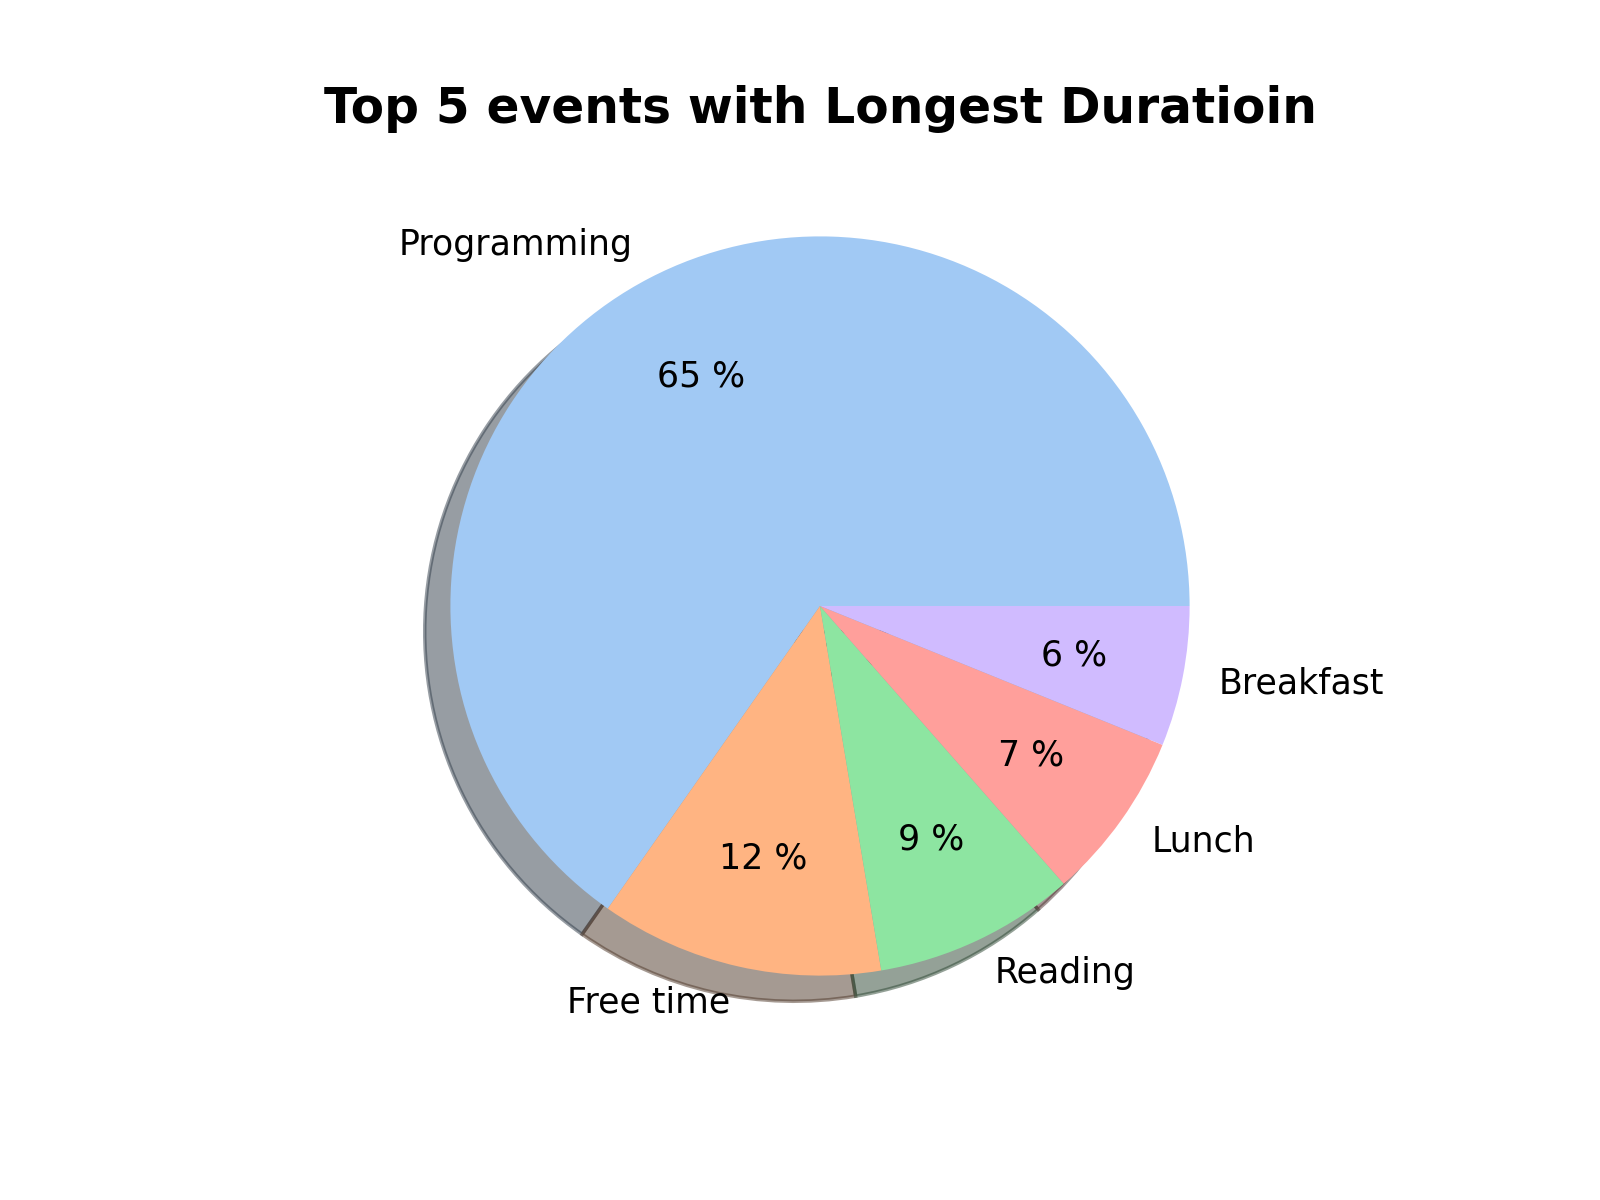
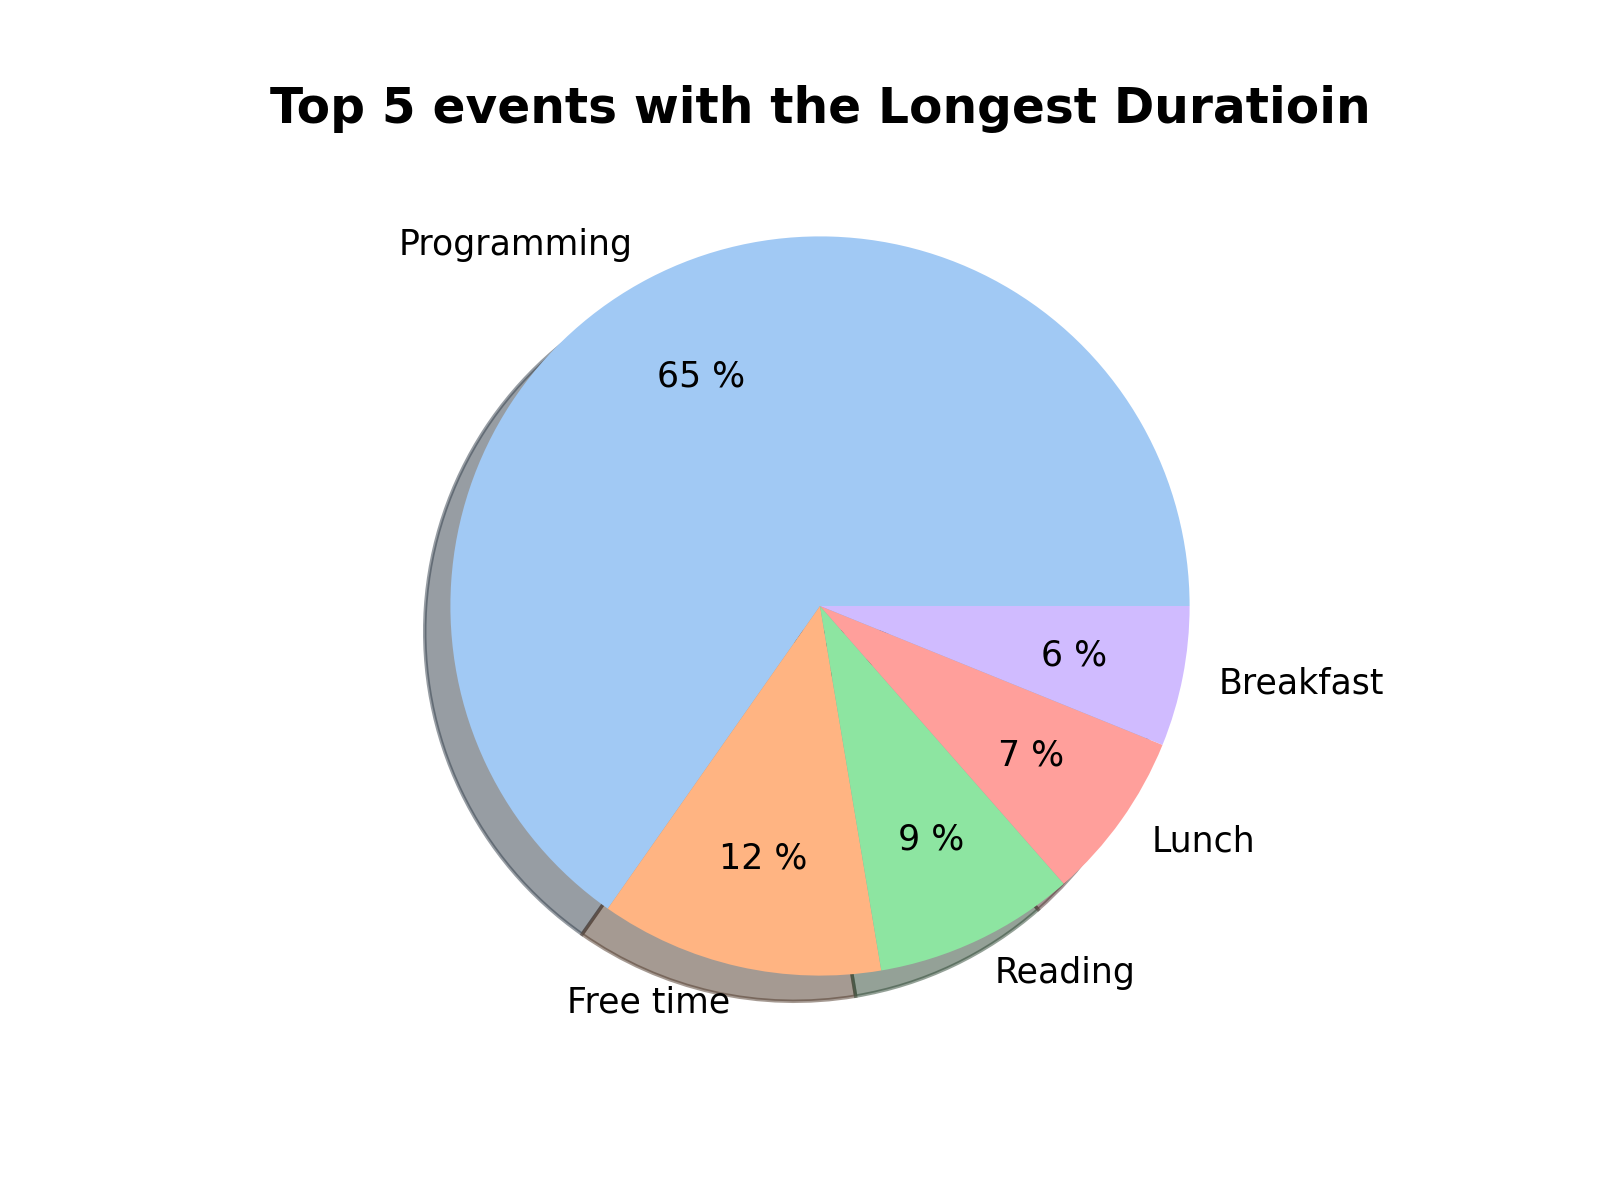
Remove a grammar mistake

Changed region(s): [[0.1562, 0.0617, 0.8438, 0.1233]]

diff --git a/src/visualization/visualizer.py b/src/visualization/visualizer.py
@@ -30,7 +30,7 @@ class Visualizer:
             shadow=True,
         )
         plt.title(
-            f"Top {max_events} events with Longest Duratioin",
+            f"Top {max_events} events with the Longest Duratioin",
             weight="bold",
             fontsize=14,
         )

diff --git a/src/main.py b/src/main.py
@@ -19,7 +19,7 @@ def main():
 
     data = data_transformer.get_events_duration(events)
 
-    data_visualizer.plot_bar_chart(data, max_events=5)
+    data_visualizer.plot_pie_chart(data, max_events=5)
 
 
 if __name__ == "__main__":
